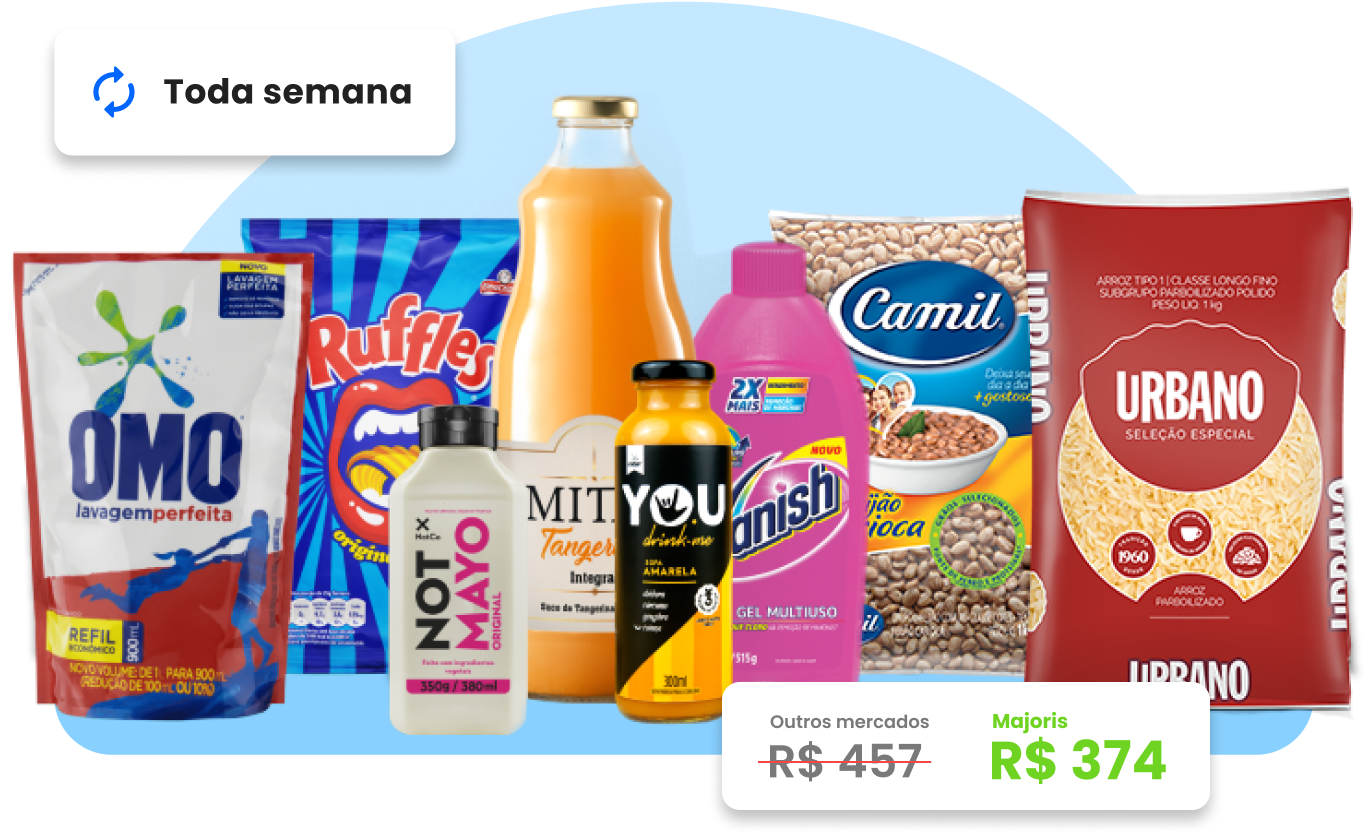
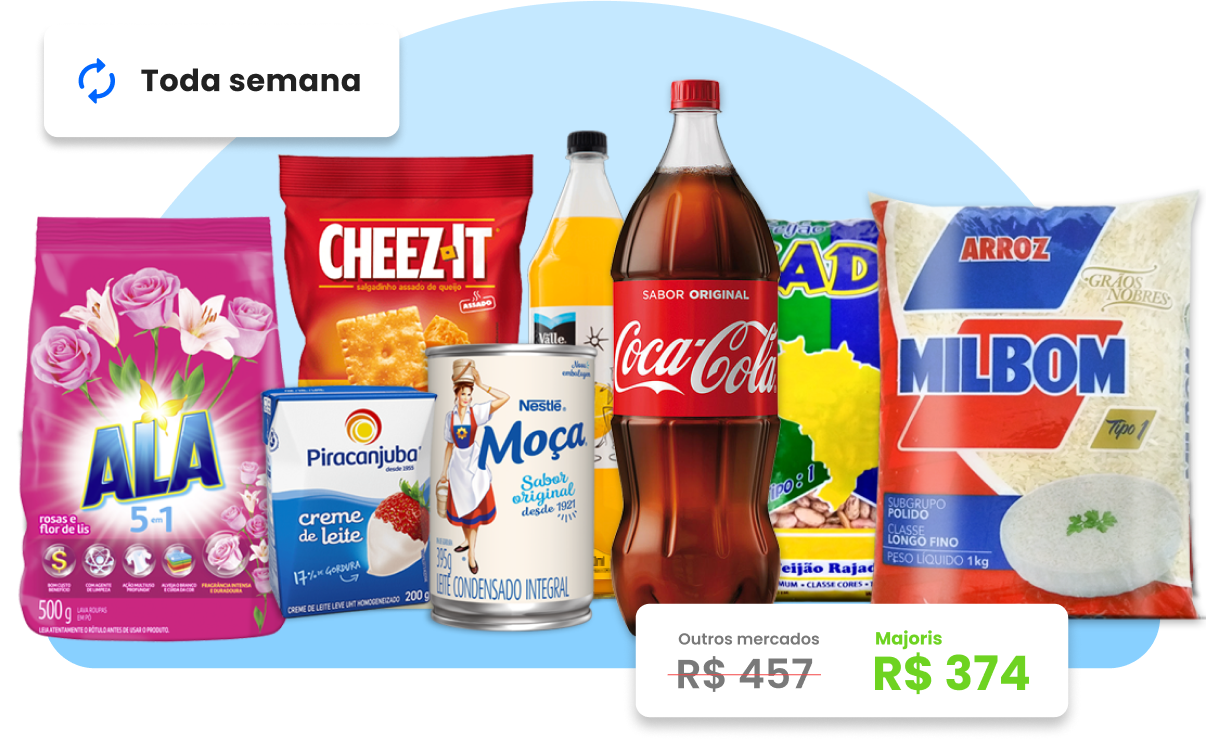
Update hero image with CR products

diff --git a/index.html b/index.html
@@ -62,7 +62,7 @@
     <div class="container">
       <div class="row">
         <div class="col-lg-5 d-flex flex-column justify-content-center">
-          <h1 data-aos="fade-up">A assinatura que  automatiza  suas compras e gera  economia.</h1>
+          <h1 data-aos="fade-up">Coloque o mercado no piloto automático.</h1>
         </div>
         <div class="col-lg-7 hero-img" data-aos="zoom-out" data-aos-delay="200">
           <img src="assets/img/hero-img.png" class="img-fluid" alt="">
